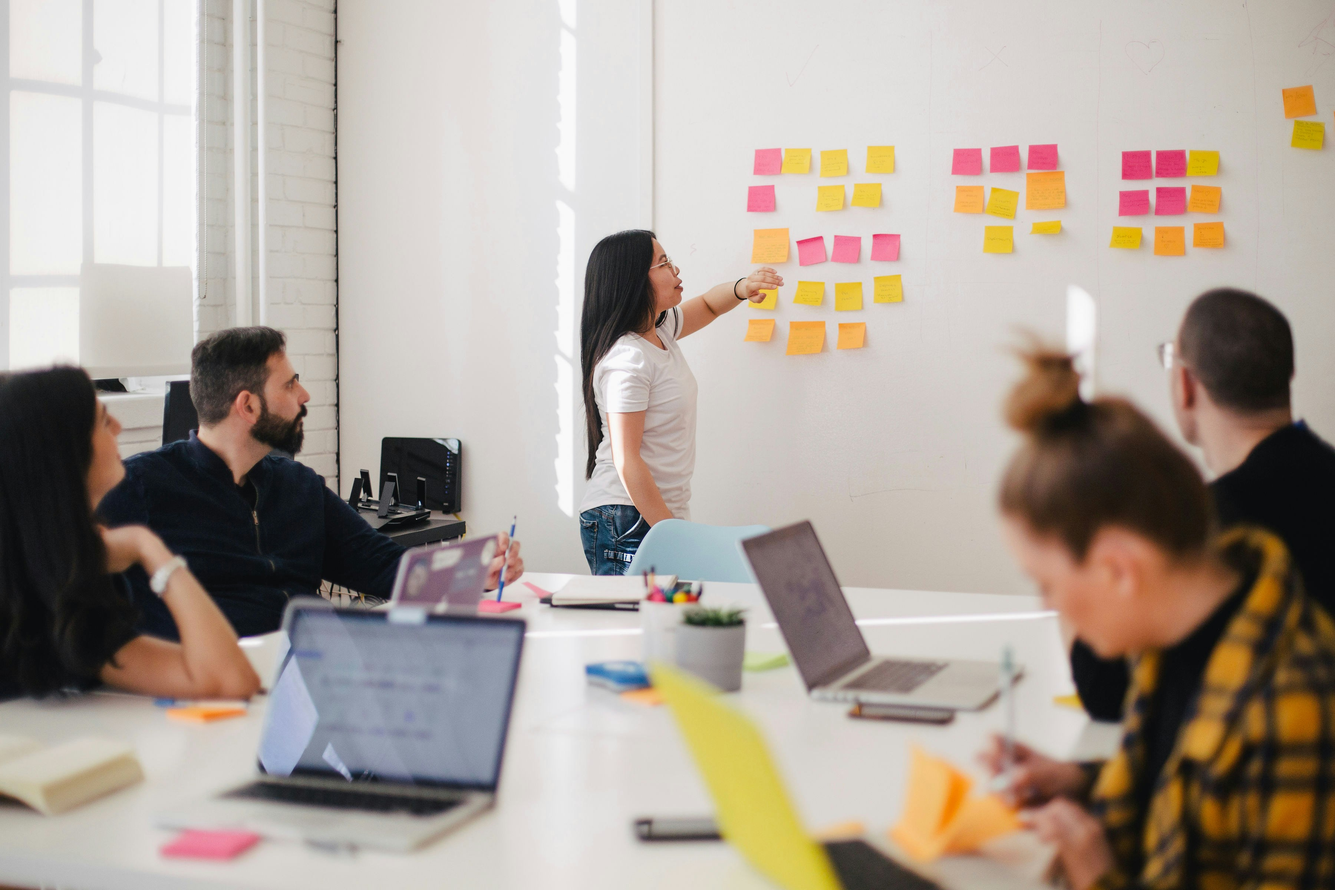
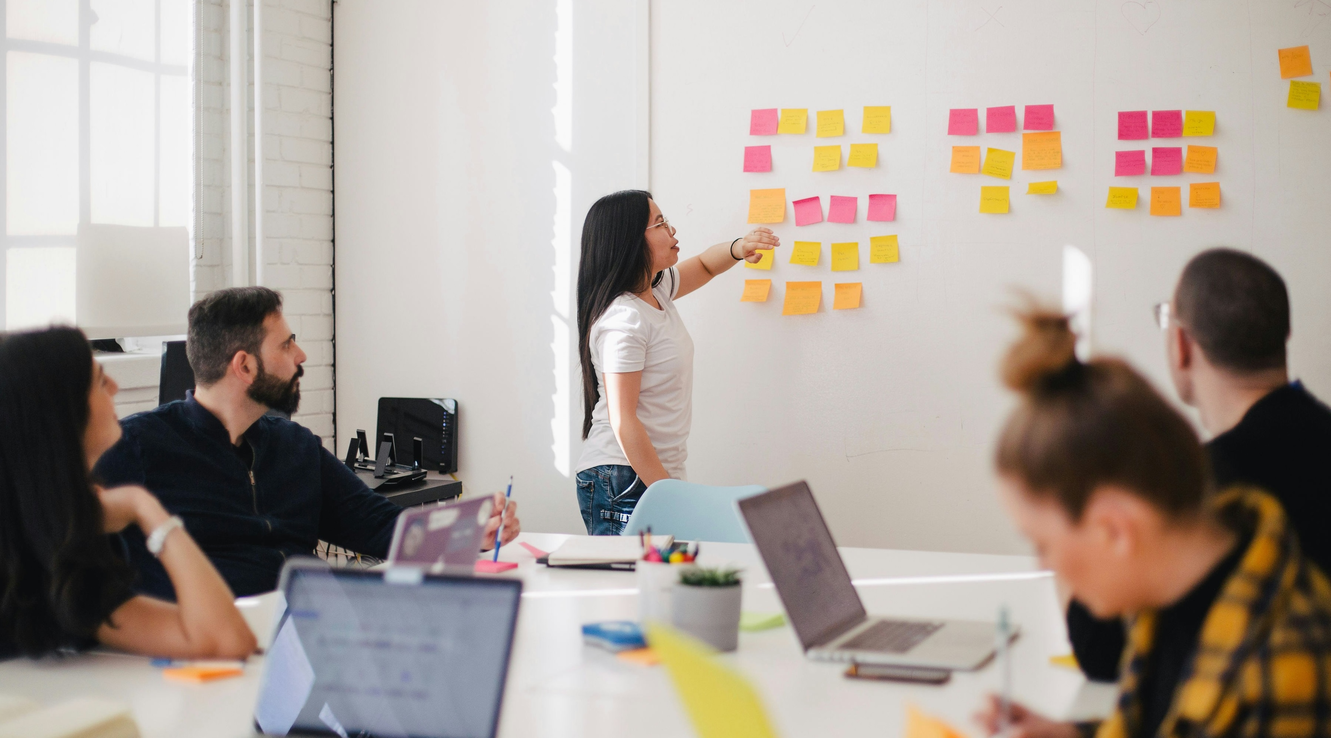
17

diff --git a/werkenbij.html b/werkenbij.html
@@ -9,6 +9,8 @@
 <link rel="stylesheet" href="./css/main.min.css">
 <link rel="stylesheet" href="./styles.css">
 <link rel="icon" href="paginalogo.png" type="image/x-icon">
+  <link href="https://fonts.googleapis.com/css2?family=Truculenta:opsz,wght@12..72,100..900&display=swap"
+    rel="stylesheet">
 </head>
 <body>
 
@@ -62,6 +64,7 @@
 <main>
   <h1 class="text-center mt-5">Werken bij Advisor Software Solutions</h1>
   <p class="text-center">Werken bij Advisor biedt uitdagende projecten, een ondersteunende teamomgeving en volop kansen voor persoonlijke ontwikkeling.</p>
+
 
   <h2 class="custom-mt-header text-center">Functies</h2>
   <div class="container text-center">
@@ -129,6 +132,10 @@
       </div>
     </div>
 </div>
+
+<!-- Quote -->
+<p class="quote display-4 text-center">"Hier komt een quote van een collega te staan waar hij/zij vertelt over wat hij ervan vindt om bij Advisor te werken."</p>
+<p class="display-6 text-center mb-5">-Klant</p>
 </main>
 
 

diff --git a/overons.html b/overons.html
@@ -70,7 +70,7 @@
 
         <h1 class="text-center mt-5">Over ons</h1>
         <div class="container d-flex justify-content-center align-items-center vh-100">
-            <img src="./images/placeholderimg.png" alt="Voorbeeld" class="img-fluid">
+            <img src="./images/werken-bij-img/working.jpg" alt="Voorbeeld" class="img-fluid">
         </div>
 
         <!-- erp en webshop -->
